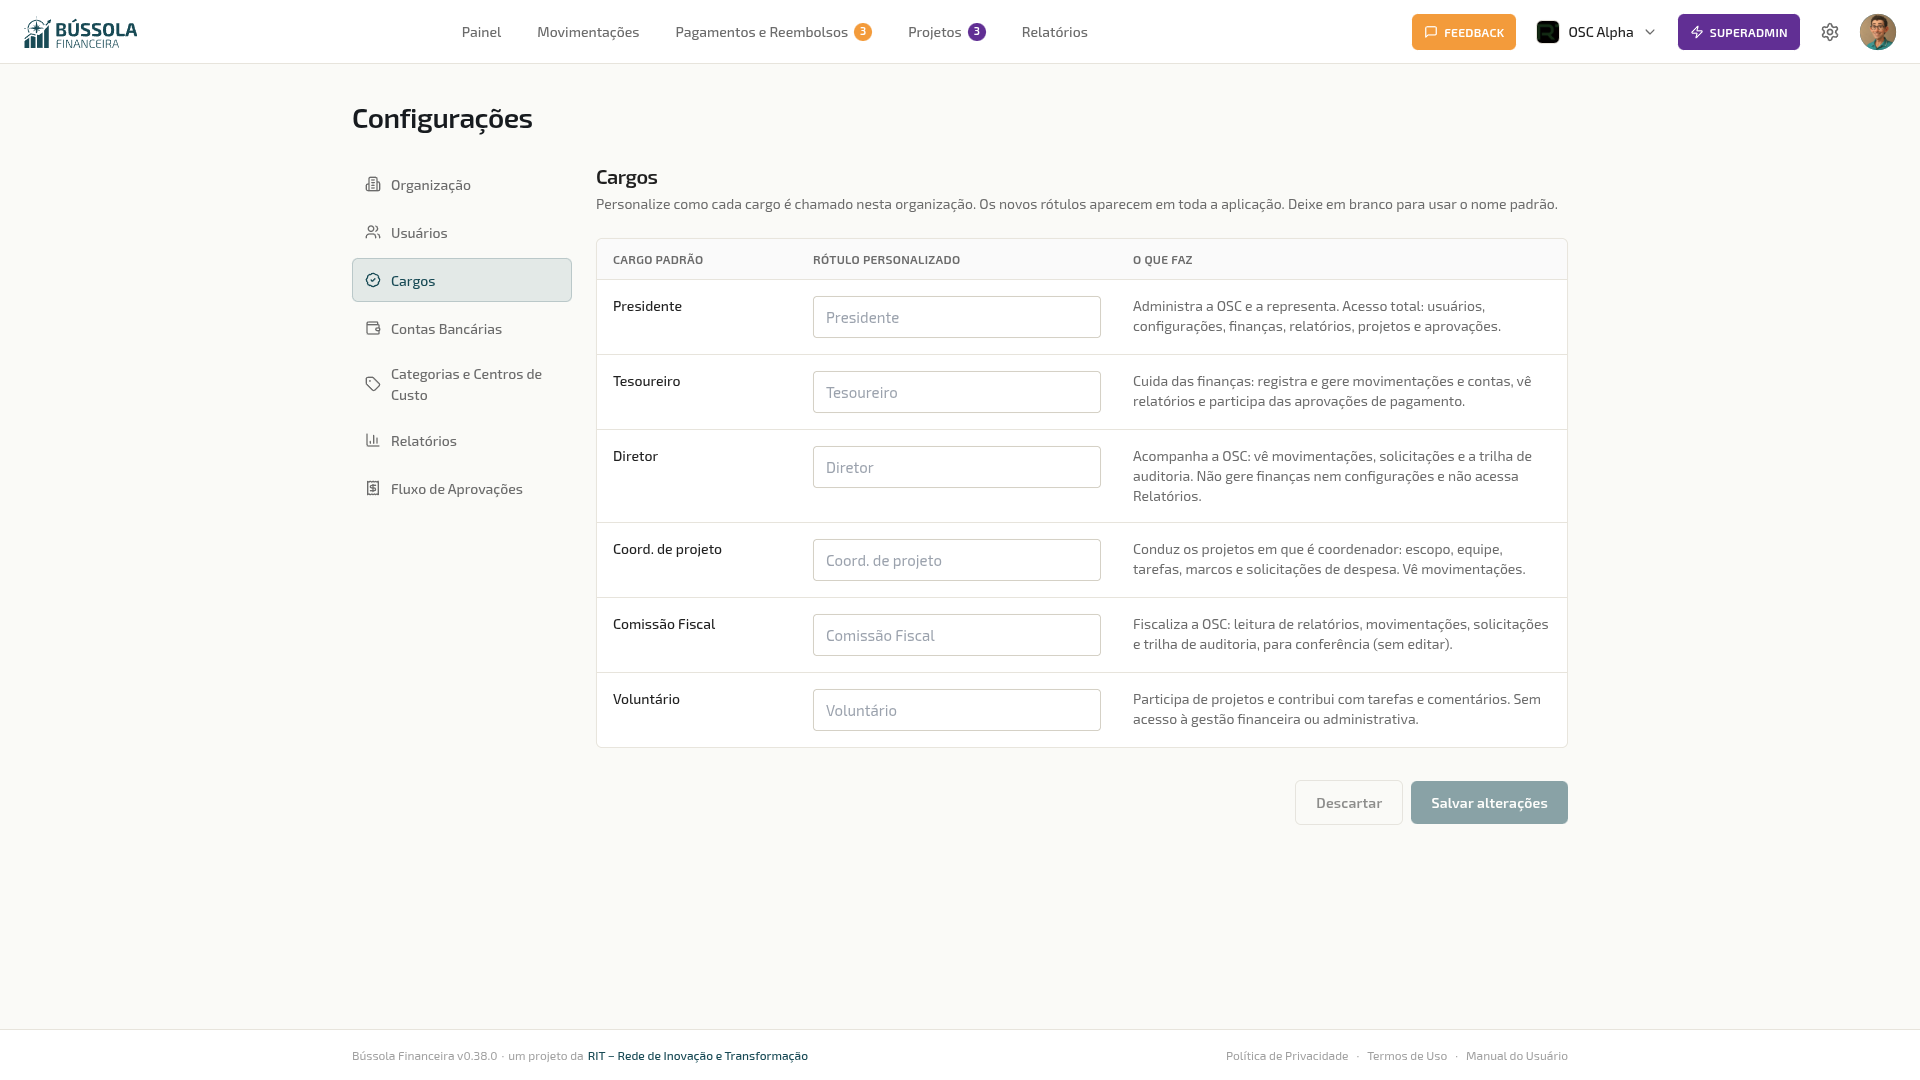
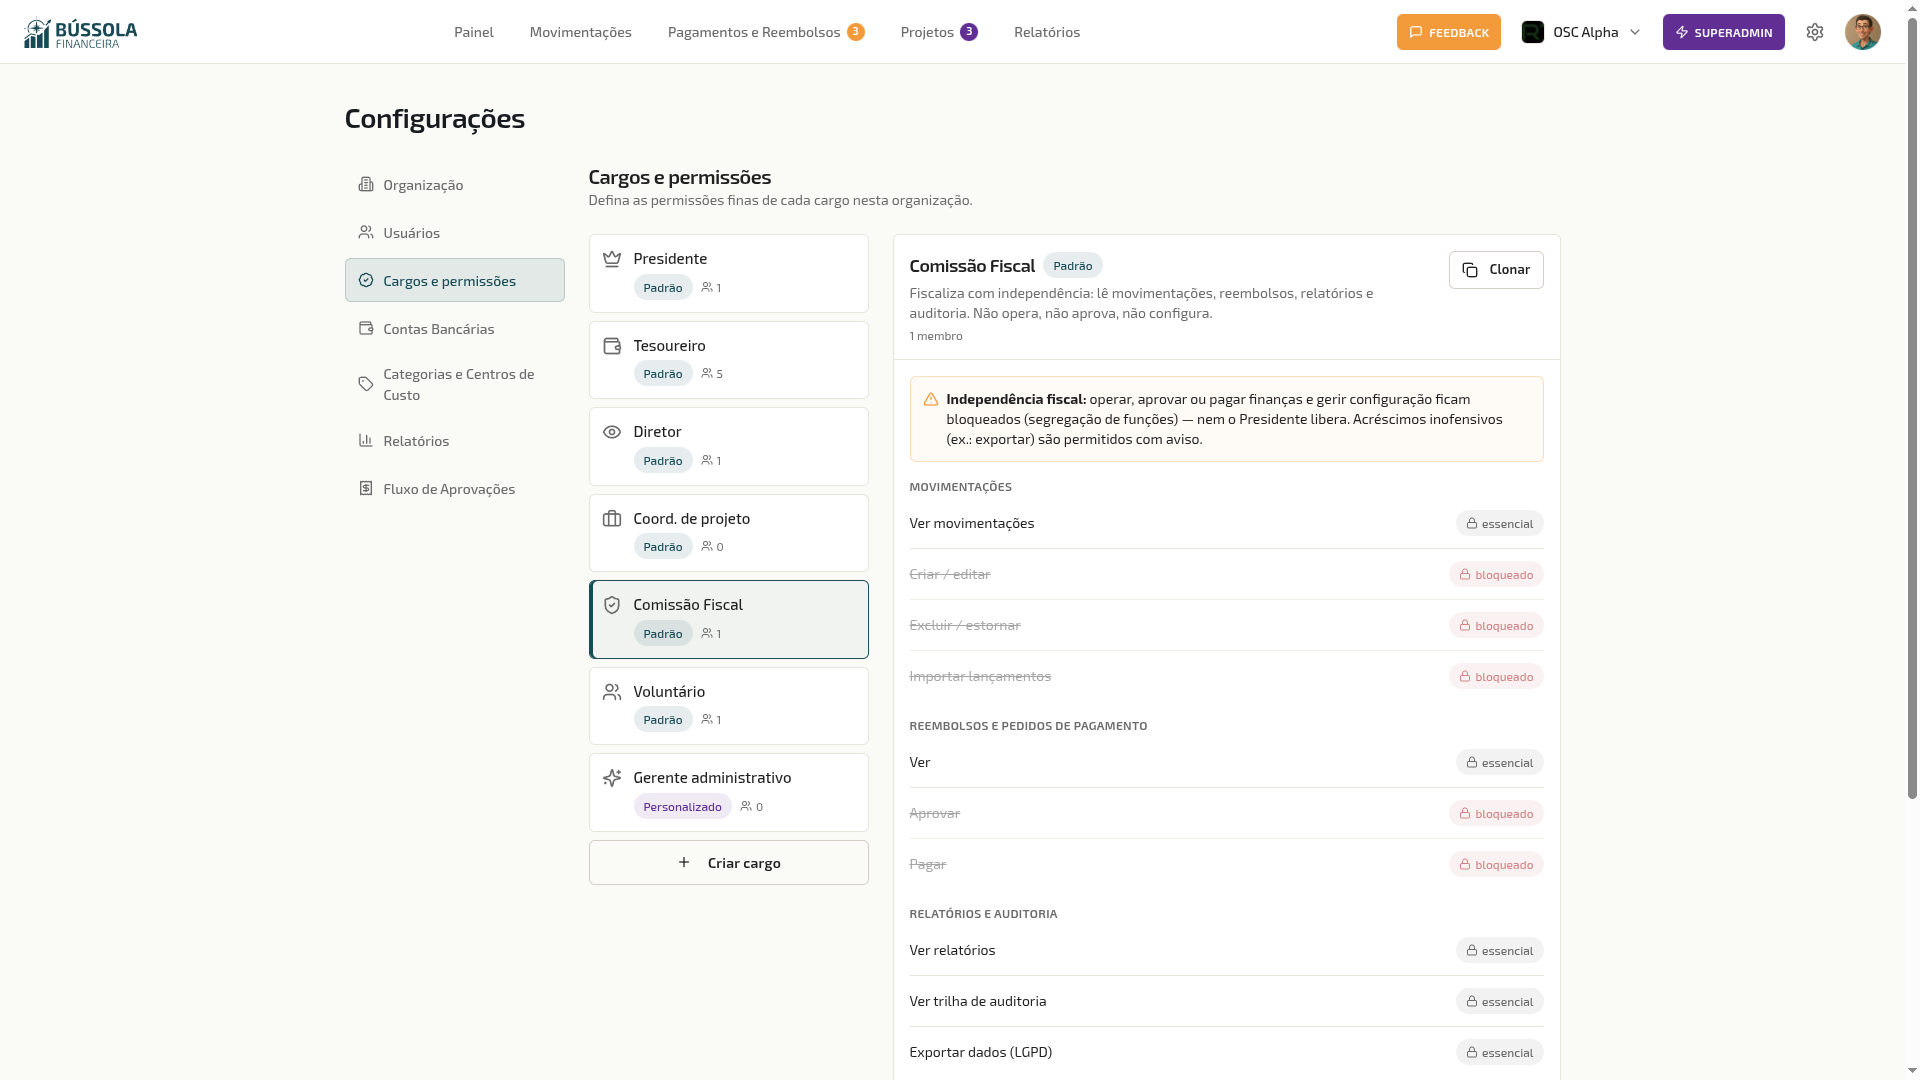
docs: changelog v0.39.0 (cargos e permissões) + manual de Cargos e permissões (RBAC) com capturas

diff --git a/configuracoes/cargos.md b/configuracoes/cargos.md
@@ -1,5 +1,5 @@
 ---
-title: "Cargos"
+title: "Cargos e Permissões"
 nav_order: 3
 parent: "Configurações da Organização"
 permalink: /configuracoes/cargos/
@@ -7,39 +7,87 @@ permalink: /configuracoes/cargos/
 
 > Disponível para **Presidente (admin)**.
 
-A página **Cargos** permite **personalizar como cada papel é chamado** dentro da sua OSC. O Bússola usa nomes padrão (Presidente, Tesoureiro, Diretor, etc.), mas cada organização tem seu próprio vocabulário — e aqui você troca o rótulo sem mudar nada das permissões.
+A página **Cargos e permissões** vai além dos 6 cargos padrão da plataforma: além de **renomear** cada cargo, o Presidente pode **criar cargos novos** e **ajustar as permissões** com controle fino — por exemplo, um "Tesoureiro sem exclusão" que registra lançamentos mas não pode excluí-los.
 
-[![Configurações — Cargos](/assets/screenshots/config-cargos.png)](/assets/screenshots/config-cargos.png)
-*Configurações — personalização dos rótulos de cargo*
+[![Configurações — Cargos e permissões](/assets/screenshots/config-cargos.png)](/assets/screenshots/config-cargos.png)
+*Editor de cargos — à esquerda a lista, à direita as permissões do cargo selecionado*
 
 > 💡 **Por que isso importa**
 >
-> Cada OSC chama suas funções de um jeito. Onde o Bússola diz "Presidente", a sua associação pode dizer "Coordenador Geral"; onde diz "Tesoureiro", o seu grupo pode dizer "Diretor Financeiro". Renomear o cargo deixa o sistema falar a língua da sua organização — nos menus, nas listas de usuários, nas aprovações — **sem alterar o que cada papel pode ver e fazer**. O nome muda; as permissões continuam exatamente as mesmas.
+> Cada OSC se organiza de um jeito. Os 6 papéis padrão cobrem a maioria dos casos, mas às vezes você precisa de uma função sob medida — um "Secretário" que só vê relatórios, um "Tesoureiro júnior" que lança mas não exclui, um "Captador de recursos" com acesso a reembolsos. Em vez de forçar a pessoa num papel que dá acesso demais (ou de menos), você monta o cargo certo e atribui. Tudo é validado **no servidor** — a tela só reflete o que a pessoa realmente pode fazer.
 
-## Como funciona
+## Conceitos
 
-A página lista os **cargos padrão** da plataforma. Para cada um, há um campo **Rótulo personalizado** e uma coluna **O que faz** que resume as permissões daquele papel.
-
-- Digite o novo nome no campo **Rótulo personalizado** do cargo que quer renomear.
-- **Deixe em branco** para manter o nome padrão.
-- Clique em **Salvar alterações**. O novo rótulo passa a aparecer em **toda a aplicação**.
-
-## Cargos e o que cada um faz
-
-| Cargo padrão | O que faz |
-|---|---|
-| **Presidente** | Administra a OSC e a representa. Acesso total: usuários, configurações, finanças, relatórios, projetos e aprovações. |
-| **Tesoureiro** | Cuida das finanças: registra e gere movimentações e contas, vê relatórios e participa das aprovações de pagamento. |
-| **Diretor** | Acompanha a OSC: vê movimentações, solicitações e a trilha de auditoria. Não gere finanças nem configurações e não acessa Relatórios. |
-| **Coord. de projeto** | Conduz os projetos em que é coordenador: escopo, equipe, tarefas, marcos e solicitações de despesa. Vê movimentações. |
-| **Comissão Fiscal** | Fiscaliza a OSC: leitura de relatórios, movimentações, solicitações e trilha de auditoria, para conferência (sem editar). |
-| **Voluntário** | Participa de projetos e contribui com tarefas e comentários. Sem acesso à gestão financeira ou administrativa. |
-
-> 📖 **Conceito · Rótulo é só o nome, não a permissão**
+> 📖 **Conceito · Cargo padrão × cargo personalizado**
 >
-> Renomear "Tesoureiro" para "Diretor Financeiro" **não dá nem tira nenhum acesso** — apenas troca a etiqueta. As permissões de cada papel são fixas e descritas na coluna **O que faz**. Para entender o que cada papel pode fazer em detalhe, veja **[Papéis e Permissões](/papeis/)**.
+> **Cargos padrão** são os 6 que já vêm na plataforma (Presidente, Tesoureiro, Diretor, Coord. de projeto, Comissão Fiscal, Voluntário) — aparecem com a etiqueta **Padrão**. **Cargos personalizados** são os que a sua OSC cria — etiqueta **Personalizado**. A diferença prática está na edição (veja abaixo): cargo padrão tem um piso de permissões que não sai; cargo personalizado é totalmente editável.
+
+> 📖 **Conceito · Permissões essenciais e acréscimos**
+>
+> Cada cargo padrão tem um conjunto de **permissões essenciais** — o piso que define aquele papel e **não pode ser removido** (aparece travado, com a etiqueta "essencial"). O Presidente só pode **acrescentar** permissões sobre esse piso. Já um cargo personalizado não tem piso: todas as permissões são interruptores que você liga e desliga livremente.
+
+> 📖 **Conceito · Permissão efetiva**
+>
+> Uma pessoa pode ter **mais de um cargo** ao mesmo tempo. O que ela pode fazer é a **soma** das permissões de todos os cargos dela. É essa permissão somada que o sistema usa para liberar ou barrar cada ação.
+
+## As permissões
+
+As permissões são organizadas por área, com as operações que importam separadas:
+
+- **Movimentações** — Ver · Criar / editar · Excluir / estornar · Importar lançamentos
+- **Reembolsos e pedidos de pagamento** — Ver · Aprovar · Pagar
+- **Relatórios e auditoria** — Ver relatórios · Ver trilha de auditoria · Exportar dados (LGPD)
+- **Configurações** — Config. financeira (contas e categorias) · Config. da OSC · Gerir membros e cargos
+
+## Editar um cargo
+
+Clique no cargo na lista à esquerda; as permissões aparecem à direita.
+
+- Em **cargo personalizado**, cada permissão é um **interruptor** — ligue ou desligue à vontade.
+- Em **cargo padrão**, as **essenciais** ficam travadas; os demais aparecem como interruptores que o Presidente pode **acrescentar**.
+- Clique em **Salvar alterações** ao final. Em cargo padrão, salva só os acréscimos sobre o essencial.
+
+[![Cargo personalizado — permissões editáveis](/assets/screenshots/config-cargos-custom.png)](/assets/screenshots/config-cargos-custom.png)
+*Cargo personalizado: cada permissão é um interruptor (aqui, "Excluir / estornar" desligado)*
+
+> ⚠️ **Atenção · Delegar poderes de administrador**
+>
+> Ao ligar **Config. da OSC** ou **Gerir membros e cargos**, o sistema avisa que você está concedendo **poderes de administrador**: quem tiver esse cargo passa a ter o mesmo controle que um Presidente sobre aquela área. Conceda apenas a quem você confia para administrar a organização.
+
+## Comissão Fiscal: independência protegida
+
+A **Comissão Fiscal** existe para fiscalizar as finanças com independência. Por isso, as permissões que **conflitam com a fiscalização** — operar, aprovar ou pagar finanças e gerir configuração — ficam **bloqueadas** no cargo Comissão Fiscal, **mesmo para o Presidente**. Acréscimos inofensivos (como exportar dados) são permitidos, com aviso.
+
+A mesma regra vale na atribuição: se você tentar dar a uma pessoa da Comissão Fiscal um cargo que tem permissões conflitantes, o sistema **barra com explicação**.
+
+> 💡 **Por que isso importa · Segregação de funções**
+>
+> Quem opera o dinheiro não pode ser quem fiscaliza o dinheiro — é o princípio que dá credibilidade ao conselho fiscal e costuma estar no estatuto da OSC. O Bússola protege isso automaticamente, para que a fiscalização nunca acabe auditando os próprios atos.
+
+## Criar e clonar cargos
+
+[![Diálogo de criar cargo personalizado](/assets/screenshots/config-cargos-criar.png)](/assets/screenshots/config-cargos-criar.png)
+*Criar cargo: dê um nome e, opcionalmente, parta das permissões de um cargo existente*
+
+- **Criar cargo** — botão no fim da lista. Dê um nome e escolha **começar do zero** ou **clonar** as permissões de um cargo existente. Depois ajuste os interruptores e salve.
+- **Clonar** — disponível no cabeçalho de qualquer cargo: cria um personalizado já preenchido com as permissões daquele cargo, pronto para ajustar (ex.: clonar Tesoureiro e desligar "Excluir / estornar").
+
+## Excluir um cargo personalizado
+
+Cargos padrão não podem ser excluídos. Um cargo personalizado pode — **exceto se tiver membros**: nesse caso o sistema **bloqueia e mostra quem só tem aquele cargo**, para você reatribuir antes.
+
+## Atribuir cargos às pessoas
+
+A atribuição é feita em **Configurações → Usuários**: no menu de ações de cada pessoa, **Editar papéis** lista os cargos padrão **e** os personalizados; marque um ou vários (a pessoa acumula as permissões de todos).
+
+[![Editar papéis — cargos padrão e personalizados](/assets/screenshots/config-usuarios-papeis.png)](/assets/screenshots/config-usuarios-papeis.png)
+*Editar papéis: marque os cargos da pessoa (padrão e/ou personalizados)*
+
+## Renomear o rótulo de um cargo
+
+Você também pode trocar **como cada cargo é chamado** na sua OSC (onde o Bússola diz "Tesoureiro", a sua associação pode dizer "Diretor Financeiro") — sem mudar as permissões. O novo rótulo aparece em toda a aplicação.
 
 ## Por onde seguir
 
-- **Configurações → Usuários** — para atribuir papéis aos membros da OSC.
-- **[Papéis e Permissões](/papeis/)** — a referência completa do que cada papel pode ver e fazer.
+- **Configurações → Usuários** — para atribuir os cargos aos membros.
+- **[Papéis e Permissões](/papeis/)** — a referência do que cada papel padrão pode ver e fazer.